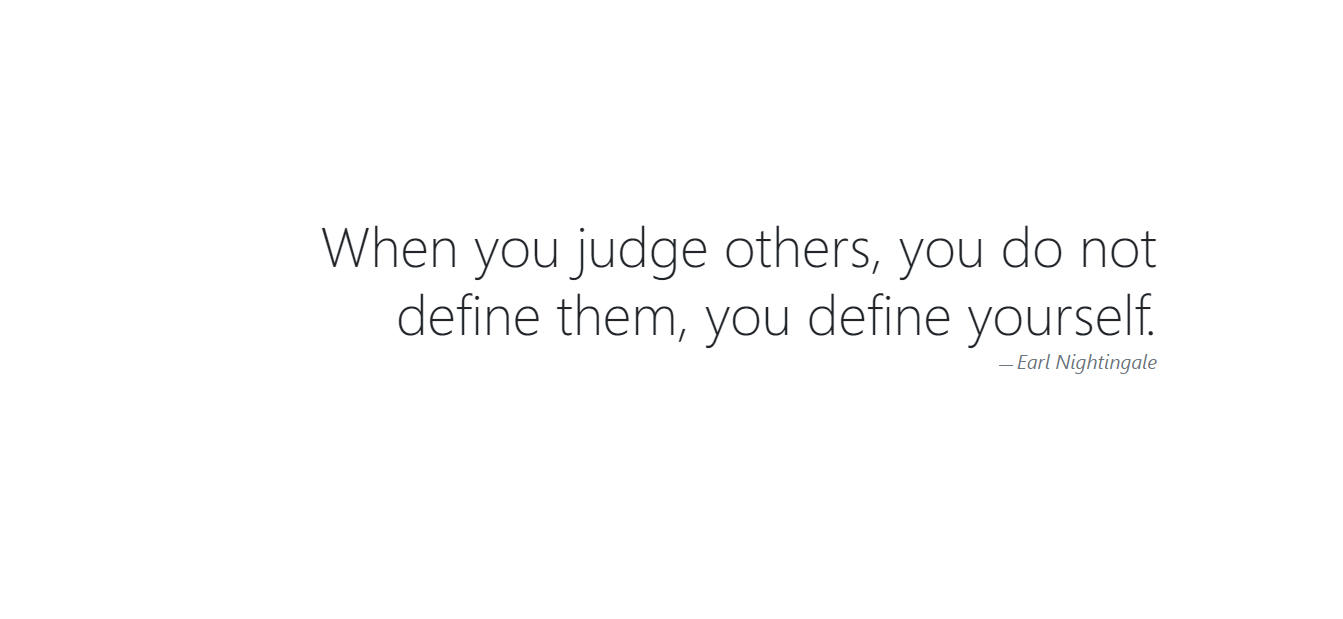
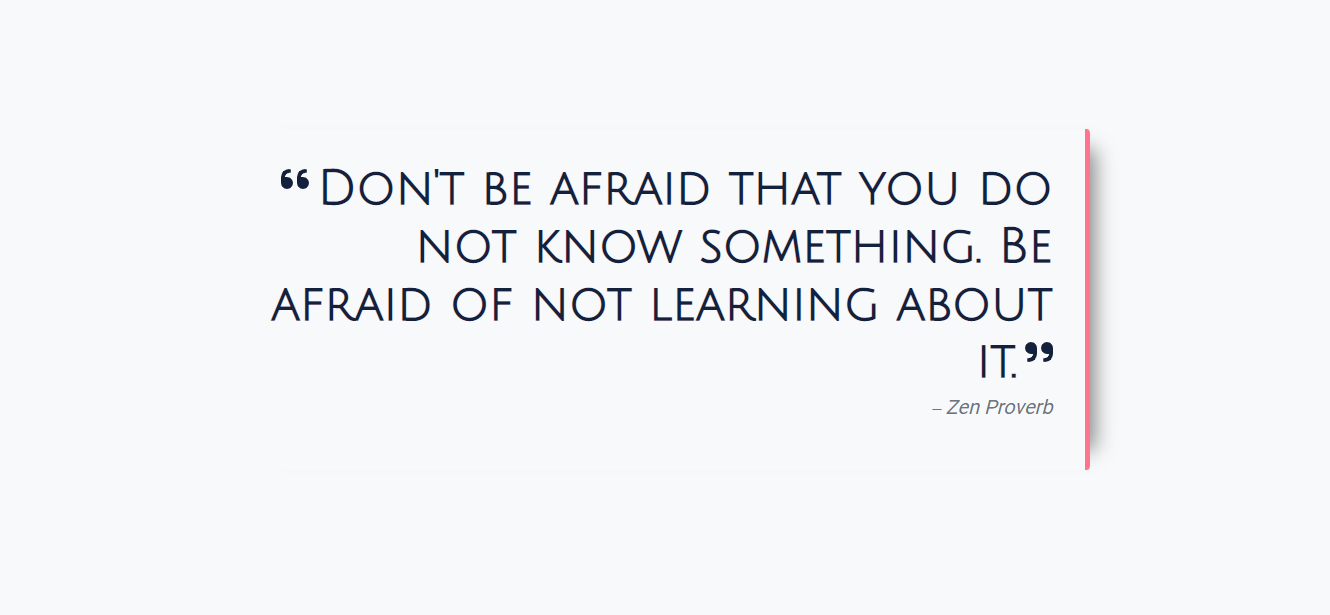
Adicionado página 404

Changed region(s): [[0.185, 0.2163, 0.8632, 0.7415]]

diff --git a/components/quote.jsx b/components/quote.jsx
@@ -1,3 +1,5 @@
+import { faQuoteLeft, faQuoteRight } from "@fortawesome/free-solid-svg-icons";
+import { FontAwesomeIcon } from "@fortawesome/react-fontawesome";
 import styles from "../styles/Home.module.css";
 
 // Quote component
@@ -7,7 +9,17 @@ export default function Quote({ quote }) {
       {quote && (
         <figure className={styles.text_align}>
           <blockquote className="blockquote">
-            <p className="display-5 fw-normal">{quote.q}</p>
+            <p className="display-5 fw-bold">
+              <FontAwesomeIcon
+                icon={faQuoteLeft}
+                className="fs-2 align-text-top me-2"
+              />
+              {quote.q}
+              <FontAwesomeIcon
+                icon={faQuoteRight}
+                className="fs-2 align-text-top ms-2"
+              />
+            </p>
           </blockquote>
           <figcaption className="blockquote-footer">
             <cite className="fs-5" title="Source Title">

diff --git a/styles/Home.module.css b/styles/Home.module.css
@@ -1,3 +1,11 @@
+.footer {
+  display: flex;
+  padding: 1rem 0;
+  border-top: 1px solid #eaeaea;
+  justify-content: center;
+  align-items: center;
+}
+
 .main {
   height: 100vh;
   padding: 4rem 0;
@@ -8,33 +16,29 @@
   align-items: center;
 }
 
-.footer {
-  display: flex;
-  padding: 1rem 0;
-  border-top: 1px solid #eaeaea;
-  justify-content: center;
-  align-items: center;
-}
-
 .social {
   margin: 0 0.5rem !important;
 }
 
 .text_align {
   text-align: right;
-  padding-right: 2rem;
+  padding: 2rem;
   border-right: 5px solid #ff758f;
   color: #14213d;
+  border-radius: 0.25rem;
+  box-shadow: rgba(0, 0, 0, 0.45) 25px 0 20px -20px;
 }
 
 @media (max-width: 600px) {
   .container {
-    padding: 0 1.75rem;
+    padding: 0 1rem;
   }
 
   .text_align {
-    padding-right: 0;
+    padding: 1rem;
     border-right: 0;
     text-align: center !important;
+    border-left: 5px solid#ff758f;
+    border-right: 5px solid#ff758f;
   }
 }

diff --git a/pages/404.jsx b/pages/404.jsx
@@ -1,0 +1,14 @@
+import Container from "@mui/material/Container";
+import Quote from "../components/quote";
+import styles from "../styles/Home.module.css";
+
+// Not found page component
+export default function Custom404() {
+  return (
+    <Container className={styles.container} maxWidth="md">
+      <main className={styles.main}>
+        <Quote quote={{ a: "404", q: "Page not Found" }} />
+      </main>
+    </Container>
+  );
+}

diff --git a/pages/_document.jsx b/pages/_document.jsx
@@ -12,7 +12,7 @@ export default function Document() {
           crossOrigin="anonymous"
         />
       </Head>
-      <body>
+      <body className="bg-light">
         <Main />
         <NextScript />
       </body>
